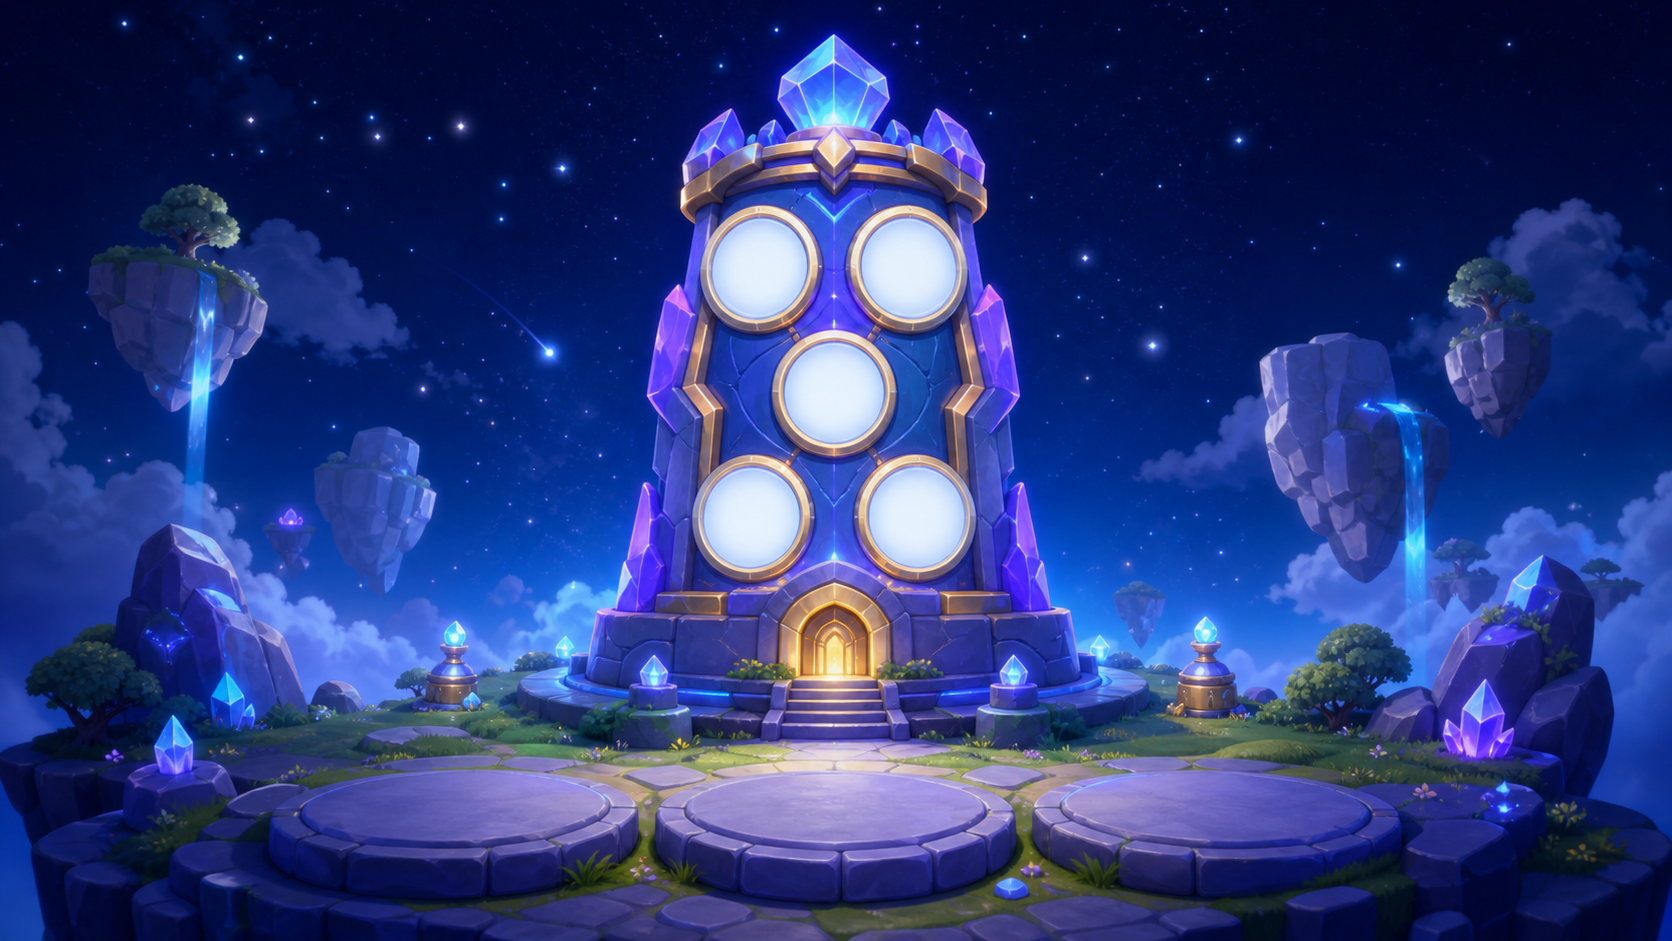
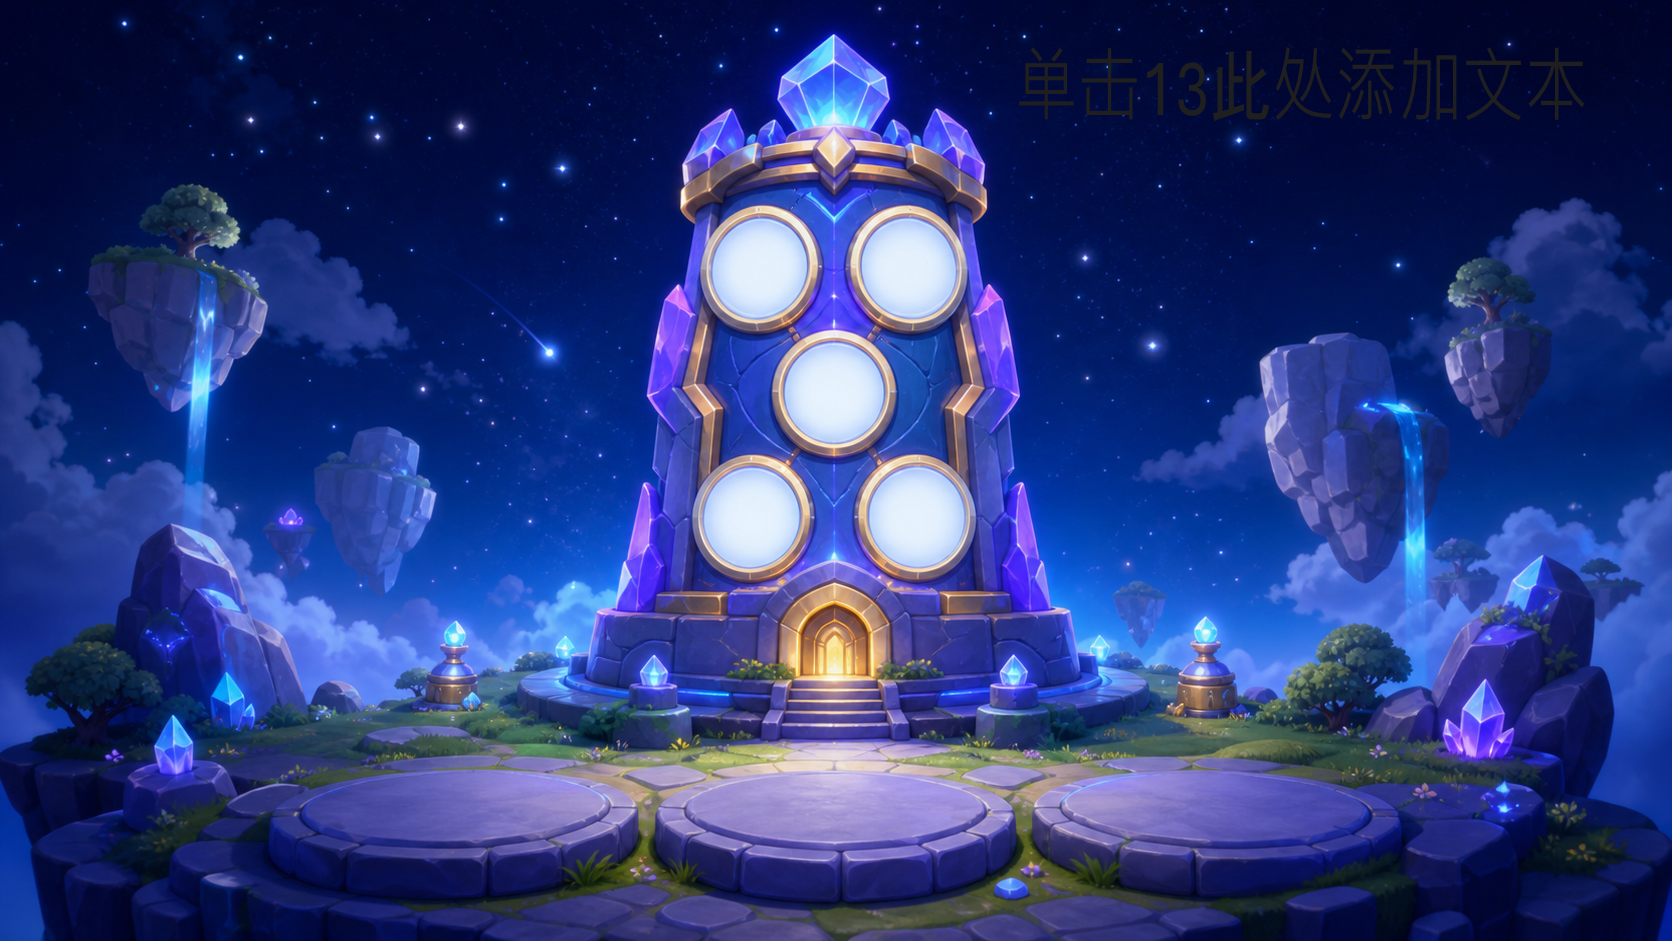
feat: add S2 adventure visual assets

Changed region(s): [[0.5909, 0.0616, 0.9641, 0.1233]]

diff --git a/lib/forestIslandAssets.ts b/lib/forestIslandAssets.ts
@@ -1,0 +1,17 @@
+// 森林岛专属美术资源路径（与倍数海同结构）。当前 public/assets/forest-island/ 下
+// 还没有这些 PNG，所以 forestIslandConfig 暂不引用它们、走主题渐变兜底；
+// 美术到位后，在 lib/adventures.ts 里把 forestIslandConfig.assets 换成
+// `...forestIslandAssets`（见该处注释），整关即从渐变切到真图，无需改组件。
+export const forestIslandAssets = {
+  map: "/assets/forest-island/map-background.png",
+  beach: "/assets/forest-island/entrance-background.png",
+  stoneQuestion: "/assets/forest-island/footprint-question-background.png",
+  islandVictory: "/assets/forest-island/path-lit-background.png",
+  tower: "/assets/forest-island/big-tree-background.png",
+  truth: "/assets/forest-island/treetop-background.png",
+  notebook: "/assets/forest-island/notebook-background.png",
+  complete: "/assets/forest-island/complete-background.png",
+  novaGuide: "/assets/forest-island/nova-guide.png",
+  novaHappy: "/assets/forest-island/nova-happy.png",
+  novaThinking: "/assets/forest-island/nova-thinking.png"
+};

diff --git a/lib/mapAssets.ts b/lib/mapAssets.ts
@@ -1,0 +1,9 @@
+// 占位资源：用户提供透明 PNG 后，替换 worldMap / heroIdle / heroWalk 的路径即可。
+// worldMap 期望：竖向 1080x1920，去掉烘焙在图里的小机器人，能量环保留。
+// heroIdle / heroWalk 期望：透明背景 PNG，全身站立/迈步，约 512x640。
+export const mapAssets = {
+  worldMap: "/assets/map/world-map.png",
+  heroIdle: "/assets/map/hero-idle.png" as string | null,
+  heroWalk: "/assets/map/hero-walk.png" as string | null,
+  novaFollow: "/assets/characters/nova-happy.png"
+};

diff --git a/public/assets/forest-island/README.md b/public/assets/forest-island/README.md
@@ -1,0 +1,155 @@
+# 森林岛跳数探险 图片资产 + 生图提示词
+
+森林岛（第 2 关）目前是 asset-light：没有专属背景时走「森林绿主题渐变 + emoji」兜底，
+所以**缺这些图也能正常玩**。等定制图到位后，按下面文件名放进本目录，再到
+`lib/adventures.ts` 的 `forestIslandConfig.assets` 把内容换成 `...forestIslandAssets`
+（那一行有注释说明），整关就会从渐变切换到真图，组件无需改动。
+
+下面给出**可直接粘贴进生图模型**（Midjourney / DALL·E / Stable Diffusion / 即梦 / 通义万相等）
+的详细提示词。每张图 = 「通用风格前缀 STYLE」 + 「该图的主体与构图」 + 「通用负向词 NEGATIVE」。
+
+---
+
+## 0. 通用风格前缀 STYLE（每张都加在最前面）
+
+**English:**
+> Cute 3D-rendered children's educational game key art, soft rounded shapes, Pixar-like
+> soft global illumination, glossy magical glow accents, vibrant saturated colors, clean and
+> uncluttered, smooth gradients, gentle bloom, high detail, mobile game illustration, friendly
+> and cozy mood, no harsh shadows.
+
+**中文（用国内工具时）：**
+> 可爱 3D 渲染的儿童教育游戏主视觉，圆润柔和造型，皮克斯式柔光全局照明，光泽魔法发光点缀，
+> 鲜艳饱和色彩，画面干净不杂乱，平滑渐变，柔和泛光，高细节，手游插画风，温暖治愈氛围。
+
+**比例 / 分辨率：** 所有场景图都是 **16:9 横图，建议 1920×1080**（`--ar 16:9`）。
+**主色调：** 暖森林绿 + 阳光金 + 苔藓/薄荷高光（刻意区别于倍数海的深蓝星空）。
+调色参考：嫩绿 `#bef264`、森林绿 `#228457`、暖阳金 `#fcd34d`、奶白高光 `#fef9e7`。
+
+---
+
+## 0b. 通用负向词 NEGATIVE（每张都加，**最重要**）
+
+> **no text, no letters, no numbers, no words, no captions, no UI, no buttons, no watermark,
+> no signature, no logo, no frame border**, no people faces close-up, no clutter, not dark,
+> not gloomy, no photorealism, no horror.
+
+> ⚠ **千万不要把任何文字 / 数字 / 按钮烘焙进画面**——数字、提示文案、"单击"之类全部由代码叠加。
+> （倍数海的 `tower-background.png` 就是把"单击"画进了图里，正在返工重导。别重蹈覆辙。）
+
+---
+
+## 0c. Nova 角色一致性（3 张立绘）
+
+Nova 是孩子的探险伙伴小机器人。**强烈建议用现有 `../multiples-sea/nova-guide.png` 做参考图
+（image-to-image / 垫图 / Midjourney `--cref`），而不是纯文字重画**，否则两关 Nova 会长得不一样。
+若必须文字生成，提示词里固定这几点：同一只圆润友好的小机器人、配色与倍数海版一致、透明背景、
+全身、面向镜头略偏。三种表情：
+
+- `nova-guide.png`：平静微笑、引导手势（中性）
+- `nova-happy.png`：开心欢呼、眼睛弯成月牙、举手庆祝
+- `nova-thinking.png`：歪头思考、手托下巴、头顶一个小问号光点
+
+立绘统一要求：**透明背景 PNG，全身，居中，约 1024×1024，无地面阴影投射到画布边缘**。
+
+---
+
+## 1. map-background.png — 星球地图中的森林岛
+**Prompt（STYLE + 下面 + NEGATIVE）：**
+> a lush glowing forest island floating in a math-planet world map, seen from a gentle
+> top-down 3/4 angle, winding luminous trail of glowing footprints weaving through the
+> treetops, warm sunlight breaking through the canopy, soft clouds, the whole island softly
+> glowing as if newly discovered, emerald and warm-gold palette.
+
+**构图/安全区：** 森林岛主体放**画面左中**；**右上角 right 6%~16% / top 12%~16% 区域留空**
+（代码会在那放发光的"进入岛屿"按钮 + NEW 角标）；**右下角留空**给标题卡。
+
+---
+
+## 2. entrance-background.png — 森林入口（观察阶段）
+**Prompt：**
+> the entrance of a magical sunlit forest, tall friendly trees forming an archway, warm
+> sunbeams streaming through leaves, a row of glowing footprints on the mossy ground leading
+> deeper into the woods, sparkling dust motes, inviting and cozy.
+
+**构图/安全区：** **左上角留空**给标题卡（eyebrow + 标题）；**画面下方 1/3 居中留出干净地面/小径**，
+代码会在 `bottom ~17%` 水平排一排"脚印数字石"按钮（5、10、15、20、?）。
+
+---
+
+## 3. footprint-question-background.png — 脚印数字路机关
+**Prompt：**
+> a clear forest clearing floor with a straight row of five large glowing footprint
+> stepping-stones receding gently into the woods, soft moss, dappled sunlight, the fifth
+> stepping-stone faintly pulsing as if waiting to be solved, clean uncluttered foreground.
+
+**构图/安全区：** 中心到下方**大片留空**，代码会叠加数字路（数字 + → 箭头）和三个答案选项按钮；
+**左上角留空**给标题卡。脚印石本身**不要画数字**。
+
+---
+
+## 4. path-lit-background.png — 森林小径点亮（胜利）
+**Prompt：**
+> a forest path fully lit up in celebration, the entire trail of footprints glowing bright
+> golden-green, light particles rising, trees gently illuminated, a triumphant warm radiance,
+> sense of breakthrough and joy.
+
+**构图/安全区：** **左上角留空**给标题卡；**中下方留空**，代码会叠加一排发光数字（含高亮答案）和
+"登上新岛"按钮；庆祝粒子由代码叠加（图里可有少量光点但别太满）。
+
+---
+
+## 5. big-tree-background.png — 大树数字（塔阶段，竖向数列）
+**Prompt：**
+> one majestic ancient tree filling the center of the frame, sturdy vertical trunk with
+> glowing rings/notches climbing from base to crown, magical light pulsing up the trunk,
+> warm sunlight behind the canopy, a tall vertical climb feeling, symmetrical composition.
+
+**构图/安全区（关键）：** 大树**居中、树干竖直**——代码会沿树干**从上到下竖排 5 个数字圆圈**
+（约 `top 14%` 起向下），所以**树干正中要留出竖向干净空间**；**顶部居中留空**给 3 个进度点；
+**底部居中留空**给答案选项按钮。同样**不要在树上画任何数字**。
+
+---
+
+## 6. treetop-background.png — 树顶平台（真相探测器）
+**Prompt：**
+> a serene treetop platform among the highest branches, Nova the cute robot companion
+> standing on a sturdy branch looking out, floating glowing question-mark sparks drifting in
+> the air around, soft sky and sunlit canopy below, slightly mysterious but warm mood.
+
+**构图/安全区：** Nova 放**偏侧**（左或右三分之一），**中下方留出干净区域**给 Nova 那句话的卡片
+（`bottom ~28%` 居中）和"继续"按钮；**左上角留空**给标题卡。问号光点可入画。
+> 注：若想 Nova 与右侧面板立绘完全一致，画面里的 Nova 也用同一参考图。
+
+---
+
+## 7. notebook-background.png — 探险笔记本（复盘）
+**Prompt：**
+> an open adventure journal / scrapbook with blank cream-colored pages, forest theme,
+> pressed leaves and tiny wood-grain decorations in the margins, warm cozy desk lighting,
+> the page surface mostly empty and clean, ready for stickers, top-down flat-lay view.
+
+**构图/安全区：** **页面大面积留白**——左侧窄列会叠"贴纸"按钮、右侧大片叠贴纸图与复盘文案卡；
+装饰只放在**四周边缘**，中间保持干净。色调可与倍数海笔记本统一但偏暖绿。
+
+---
+
+## 8. complete-background.png — 森林岛纪念卡背景
+**Prompt：**
+> a celebratory completion scene of the forest island at golden hour, the glowing footprint
+> trail and lit-up forest in the background, gentle confetti of leaves and light sparks,
+> festive warm radiance, a sense of accomplishment, soft vignette of light (not dark).
+
+**构图/安全区：** **左侧 6%~44% 区域**会叠"完成"标题 + 🏅 奖牌卡，**右侧**会叠成绩结果卡，
+所以**左右两侧别放主体细节**，把视觉重心放在**上方/中间的森林光景**；庆祝粒子代码会再叠一层。
+
+---
+
+## 9. Nova 三张立绘 — 见上面 §0c（优先用 multiples-sea 现有 Nova 垫图保持一致）
+
+---
+
+## 遗留待办（倍数海）
+
+- `../multiples-sea/tower-background.png` 把「单击」文字烘焙进了图里，需要按本规则
+  （负向词禁止文字）重新导出去掉文字的版本。
